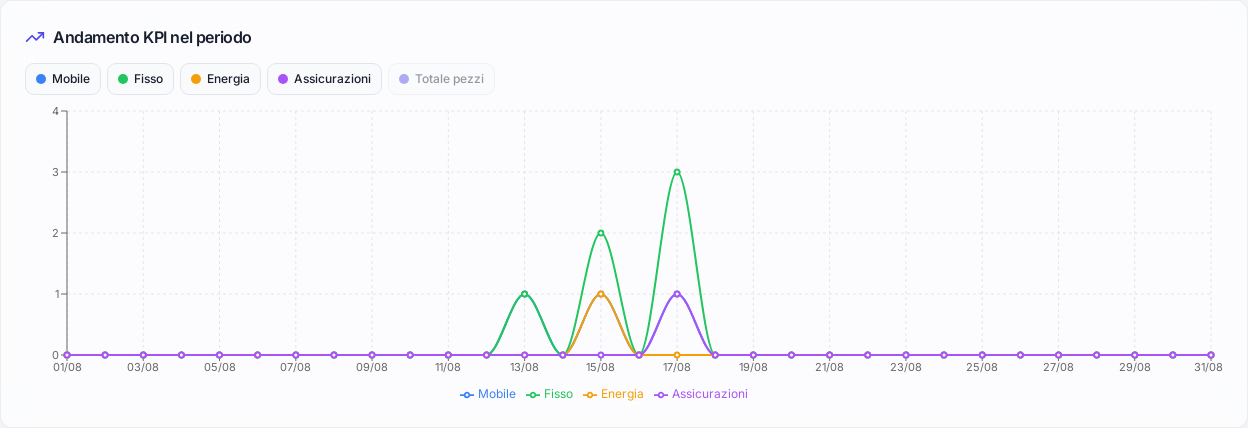
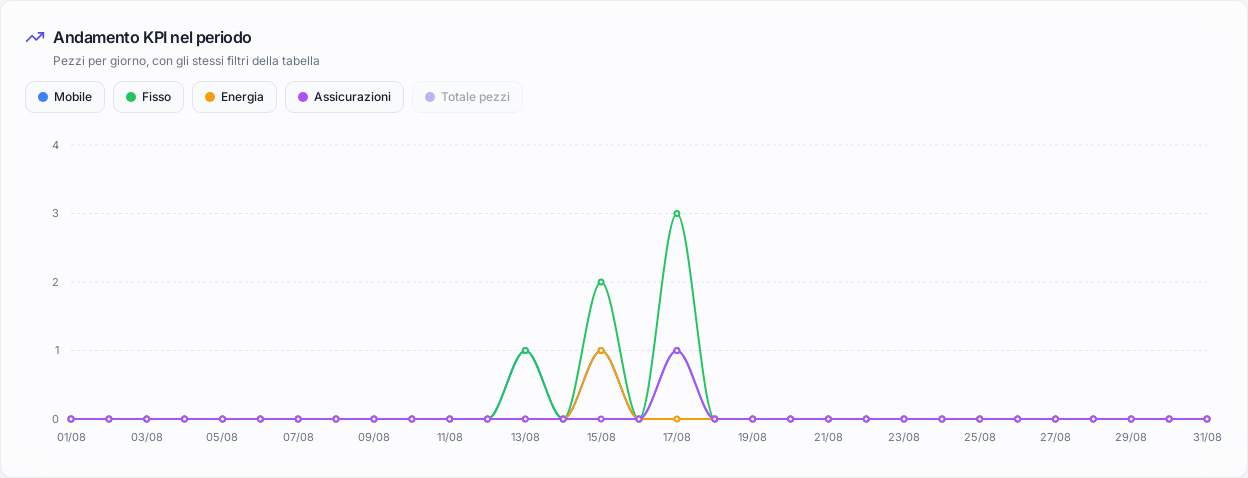
Refactor pieces progress chart and update screenshot
Replit-Commit-Author: Agent

diff --git a/client/src/components/GraficoAndamentoPezzi.tsx b/client/src/components/GraficoAndamentoPezzi.tsx
@@ -7,7 +7,6 @@ import {
   YAxis,
   CartesianGrid,
   Tooltip,
-  Legend,
 } from "recharts";
 import { TrendingUp } from "lucide-react";
 import { Card, CardContent, CardHeader, CardTitle } from "@/components/ui/card";
@@ -95,54 +94,83 @@ export function GraficoAndamentoPezzi({ data, pistaLabels, hasExtra }: Props) {
 
   if (data.length === 0) return null;
 
+  const renderChip = (s: (typeof SERIES)[number]) => {
+    const on = active.has(s.key);
+    return (
+      <Button
+        key={s.key}
+        type="button"
+        variant="outline"
+        size="sm"
+        className={`h-7 px-3 text-xs gap-1.5 ${on ? "" : "opacity-40"}`}
+        onClick={() => toggle(s.key)}
+        data-testid={`btn-trend-${s.key}`}
+        aria-pressed={on}
+      >
+        <span
+          className="inline-block w-2.5 h-2.5 rounded-full"
+          style={{ backgroundColor: s.color }}
+        />
+        {labelOf(s)}
+      </Button>
+    );
+  };
+
   return (
     <Card data-testid="card-andamento-pezzi">
-      <CardHeader className="pb-2">
-        <CardTitle className="flex items-center gap-2 text-base">
-          <TrendingUp className="h-5 w-5 text-primary" />
-          Andamento KPI nel periodo
-        </CardTitle>
-        <div className="flex flex-wrap gap-1.5 pt-2">
-          {series.map(s => {
-            const on = active.has(s.key);
-            return (
-              <Button
-                key={s.key}
-                type="button"
-                variant="outline"
-                size="sm"
-                className={`h-7 px-2.5 text-xs gap-1.5 ${on ? "" : "opacity-45"}`}
-                onClick={() => toggle(s.key)}
-                data-testid={`btn-trend-${s.key}`}
-                aria-pressed={on}
-              >
-                <span
-                  className="inline-block w-2.5 h-2.5 rounded-full"
-                  style={{ backgroundColor: s.color }}
-                />
-                {labelOf(s)}
-              </Button>
-            );
-          })}
+      <CardHeader className="pb-4 space-y-3">
+        <div className="space-y-1">
+          <CardTitle className="flex items-center gap-2 text-base">
+            <TrendingUp className="h-5 w-5 text-primary" />
+            Andamento KPI nel periodo
+          </CardTitle>
+          <p className="text-xs text-muted-foreground pl-7">
+            Pezzi per giorno, con gli stessi filtri della tabella
+          </p>
+        </div>
+        {/* I chip fanno da legenda interattiva: piste principali prima, KPI
+            extra separati da un divisore verticale per gerarchia visiva. */}
+        <div className="flex flex-wrap items-center gap-2">
+          {series.filter(s => !s.extra).map(s => renderChip(s))}
+          {hasExtra && series.some(s => s.extra) && (
+            <span className="mx-1 h-5 w-px bg-border" aria-hidden="true" />
+          )}
+          {series.filter(s => s.extra).map(s => renderChip(s))}
         </div>
       </CardHeader>
-      <CardContent>
-        <div className="h-[300px]" data-testid="chart-andamento-pezzi">
+      <CardContent className="pt-1">
+        <div className="h-[320px]" data-testid="chart-andamento-pezzi">
           <ResponsiveContainer width="100%" height="100%">
-            <LineChart data={chartData} margin={{ top: 8, right: 12, bottom: 0, left: -18 }}>
-              <CartesianGrid strokeDasharray="3 3" stroke="hsl(var(--border))" />
-              <XAxis dataKey="label" tick={{ fontSize: 11 }} interval="preserveStartEnd" minTickGap={18} />
-              <YAxis tick={{ fontSize: 11 }} allowDecimals={false} />
+            <LineChart data={chartData} margin={{ top: 12, right: 16, bottom: 4, left: -14 }}>
+              <CartesianGrid strokeDasharray="3 3" stroke="hsl(var(--border))" vertical={false} />
+              <XAxis
+                dataKey="label"
+                tick={{ fontSize: 11, fill: "hsl(var(--muted-foreground))" }}
+                tickMargin={8}
+                axisLine={{ stroke: "hsl(var(--border))" }}
+                tickLine={false}
+                interval="preserveStartEnd"
+                minTickGap={24}
+              />
+              <YAxis
+                tick={{ fontSize: 11, fill: "hsl(var(--muted-foreground))" }}
+                tickMargin={6}
+                axisLine={false}
+                tickLine={false}
+                allowDecimals={false}
+              />
               <Tooltip
                 contentStyle={{
                   backgroundColor: "hsl(var(--popover))",
                   border: "1px solid hsl(var(--border))",
                   borderRadius: 8,
                   fontSize: 12,
+                  padding: "8px 12px",
                   color: "hsl(var(--popover-foreground))",
                 }}
+                itemStyle={{ padding: "1px 0" }}
+                labelStyle={{ marginBottom: 6, fontWeight: 600 }}
               />
-              <Legend wrapperStyle={{ fontSize: 12 }} />
               {series
                 .filter(s => active.has(s.key))
                 .map(s => (
